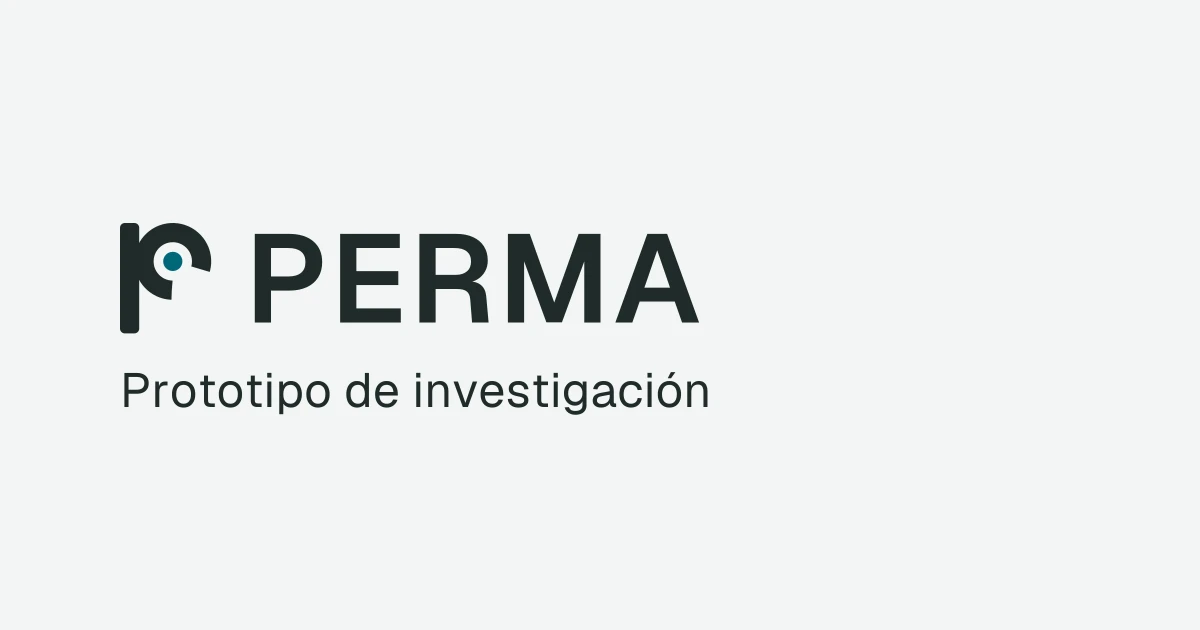
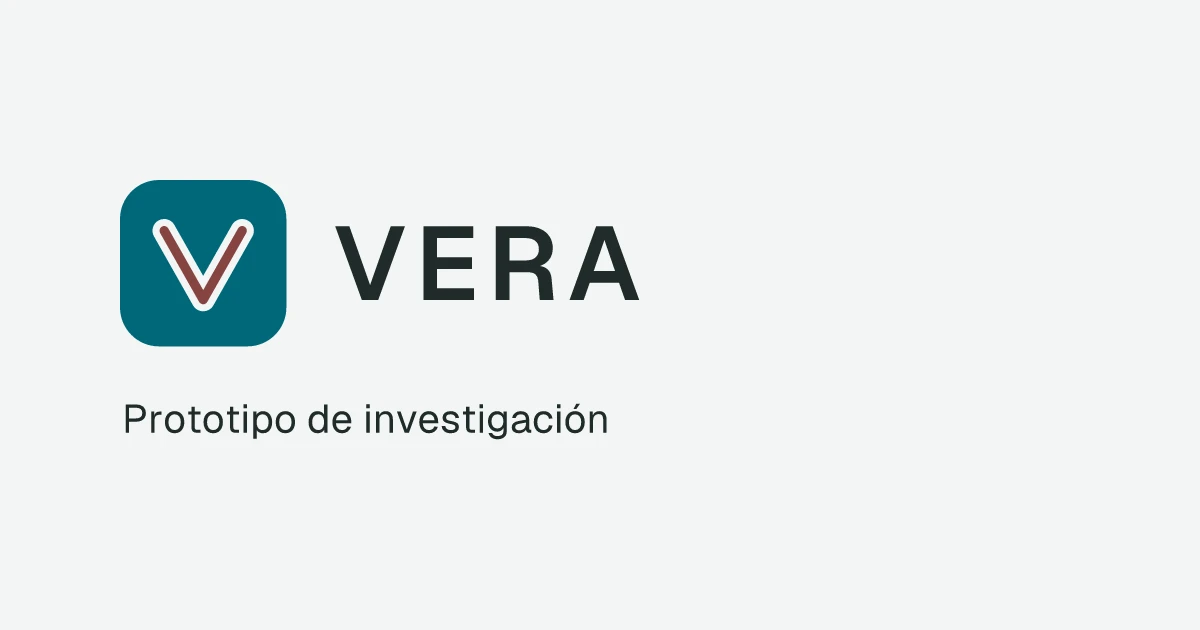
feat(brand): VERA OG image, home art renamed, retire the PERMA artwork generator

Changed region(s): [[0.0925, 0.2714, 0.5858, 0.573], [0.0925, 0.573, 0.6167, 0.6937]]

diff --git a/src/features/desk/Home.tsx b/src/features/desk/Home.tsx
@@ -9,7 +9,7 @@ import { Card } from '@/ui/Card';
 import { IconBlob } from '@/ui/IconBlob';
 import { IconButton } from '@/ui/IconButton';
 import { BookIcon, ScanIcon } from '@/ui/icons';
-import geometricArt from '@/assets/brand/perma-geometric-welcome.svg';
+import geometricArt from '@/assets/brand/vera-geometric-welcome.svg';
 import referenceAvif from '@/assets/images/reference-tschandl-300.avif';
 import referenceWebp from '@/assets/images/reference-tschandl-300.webp';
 import moreIcon from '@/assets/icons/more.svg';

diff --git a/src/assets/brand/README.md b/src/assets/brand/README.md
@@ -1,0 +1,4 @@
+# VERA brand assets
+
+These SVG and PNG files are shipped with the app. They are generated outside this repository:
+see `vera-brand/gen/build.py` in the VERA design drop. Do not hand-edit the artwork here; regenerate it there and copy the outputs.
